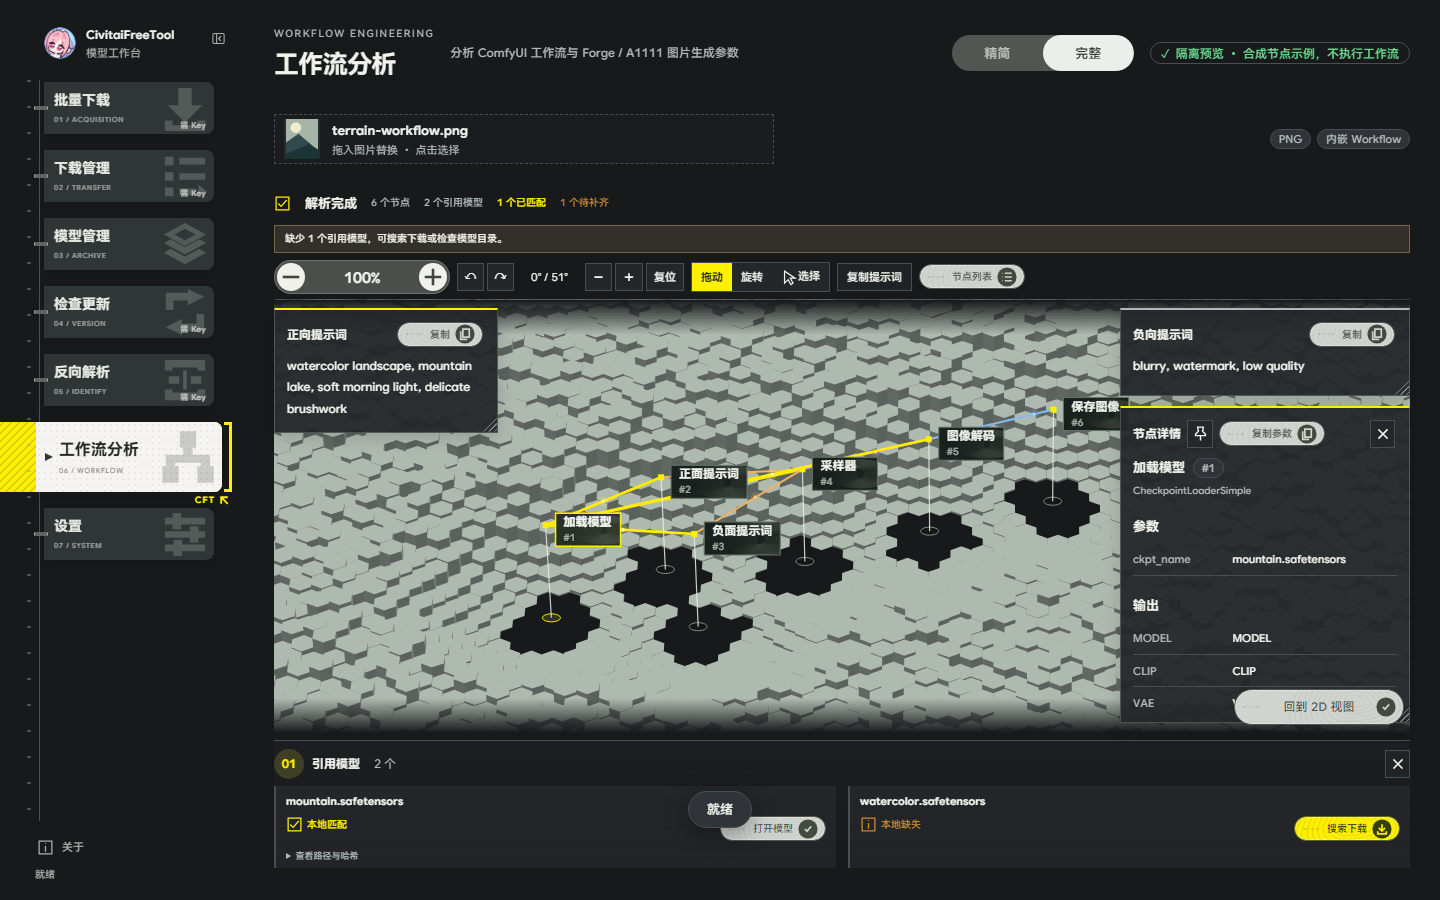
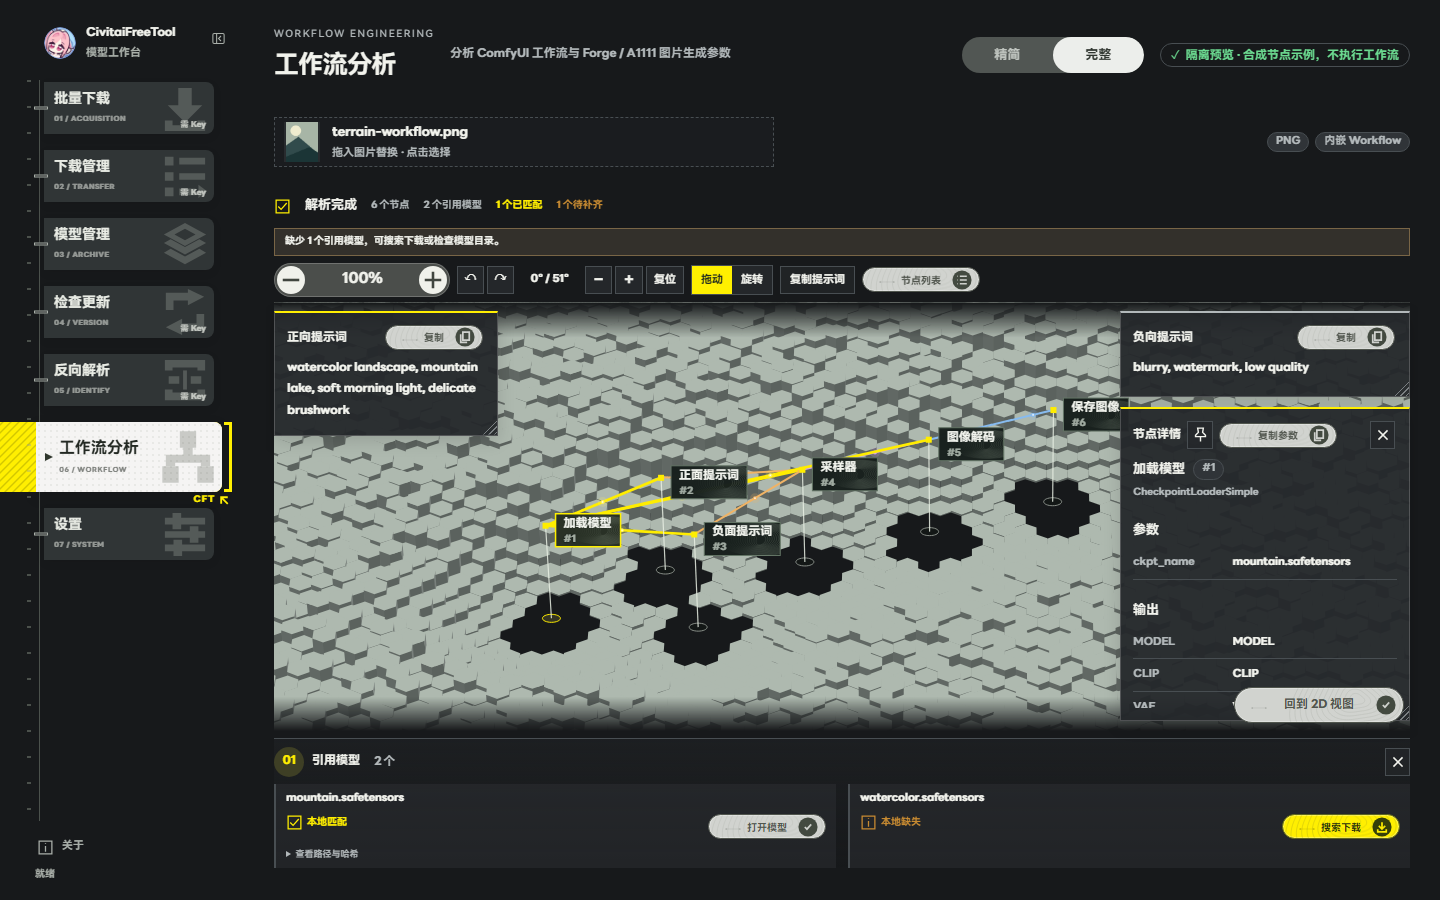
docs: continuous map palettes, full-width header and complete theme-aware screenshots

diff --git a/docs/index.html b/docs/index.html
@@ -4,7 +4,7 @@
 <meta charset="utf-8"><meta name="viewport" content="width=device-width,initial-scale=1"><meta name="color-scheme" content="light dark">
 <meta name="description" content="CivitaiFreeTool：下载、整理和管理本地 AI 模型，查看模型来源与工作流。Windows 便携版，配套 Chrome / Edge 与 Firefox 扩展。">
 <meta property="og:title" content="CivitaiFreeTool — 模型收藏，从这里开始。"><meta property="og:description" content="下载、归档、反向解析与工作流分析。你的模型，一个工作台。"><meta property="og:image" content="https://advicesama.github.io/CivitaiFreeTool/assets/repository-cover.png">
-<title>CivitaiFreeTool — 模型收藏，从这里开始。</title><link rel="icon" href="icon128.png"><link rel="stylesheet" href="site.css"><link rel="stylesheet" href="site-pages.css"><script src="site.js" defer></script><script src="site-pages.js" defer></script>
+<title>CivitaiFreeTool — 模型收藏，从这里开始。</title><link rel="icon" href="icon128.png"><link rel="stylesheet" href="site.css?v=20261115-theme-shots"><link rel="stylesheet" href="site-pages.css?v=20261115-theme-shots"><script src="site.js?v=20261115-theme-shots" defer></script><script src="site-pages.js?v=20261115-theme-shots" defer></script>
 </head>
 <body>
 <div class="site-map" aria-hidden="true"><div class="map-contours"></div><div class="map-grid"></div><svg class="map-geometry" viewBox="0 0 1600 1000" preserveAspectRatio="xMidYMid slice"><g fill="none" stroke="currentColor"><path d="M-100 820 440 640 980 810 1720 420M100 -100 440 640 140 1100M440 640 1240 210 1720 420M1240 -50v1100"/><circle cx="440" cy="640" r="90"/><circle cx="440" cy="640" r="140"/><circle cx="1240" cy="210" r="36"/><path d="M420 640h40m-20-20v40M1220 210h40m-20-20v40"/></g></svg><span class="map-coordinate">CFT / LOCAL ARCHIVE<br>COLLECTION ENGINEERING</span></div>
@@ -19,15 +19,15 @@
 <div class="hero-topline"><p class="eyebrow"><span class="status-dot" aria-hidden="true"></span> LOCAL MODEL WORKBENCH</p><p class="edition">WINDOWS 10 / 11 <span>—</span> FREE TO USE</p></div>
 <div class="hero-layout"><div><h1 id="heroTitle">模型收藏，<br><span>从这里开始。</span><i aria-hidden="true"><svg viewBox="0 0 48 48" aria-hidden="true" focusable="false"><path d="M13 9h26v26h-8V23L14 40l-6-6 17-17H13Z"/></svg></i></h1></div><div class="hero-aside"><span class="section-index">WORKSPACE / 03</span><p class="lead">让散落的模型，<br>成为井然有序的收藏。</p><p class="hero-description">下载、整理、检查更新。再从一张生成图片，读懂它背后的工作流。</p><a class="button primary" href="#download">获取 CivitaiFreeTool <span aria-hidden="true">↗</span></a><a class="inline-link" href="https://github.com/ADVICEsama/CivitaiFreeTool">查看项目源码 <span aria-hidden="true">↗</span></a></div></div>
 <div class="workspace" id="workspace"><div class="workspace-bar"><div class="view-tabs" aria-label="工作台预览"><button type="button" class="view-tab active" data-view="models"><span>01</span>模型档案</button><button type="button" class="view-tab" data-view="updates"><span>02</span>版本检查</button><button type="button" class="view-tab" data-view="workflow"><span>03</span>工作流分析</button></div><span class="workspace-label">THE ACTUAL WORKBENCH <span aria-hidden="true">↙</span></span></div>
-<figure class="product-view" id="view-models"><img src="screenshots/overview-models-v3.png" width="1440" height="900" alt="模型管理工作台：三种模型视图、筛选与右侧详情预览" fetchpriority="high"><figcaption><span>模型管理 / MODEL ARCHIVE</span><span>隔离示例 · 不含个人模型与账号</span></figcaption></figure>
-<figure class="product-view" id="view-updates"><img src="screenshots/overview-updates-v3.png" width="1440" height="900" alt="检查更新工作台：左侧批次、右侧模型版本与更新状态" loading="lazy"><figcaption><span>检查更新 / VERSION CHECK</span><span>隔离示例 · 仅提示同底模新版</span></figcaption></figure>
-<figure class="product-view" id="view-workflow"><img src="screenshots/overview-workflow-v3.png" width="1440" height="900" alt="工作流分析：节点沙盘、独立提示词与引用模型" loading="lazy"><figcaption><span>工作流分析 / WORKFLOW ENGINEERING</span><span>合成示例 · 只分析，不执行</span></figcaption></figure>
+<figure class="product-view" id="view-models"><img src="screenshots/overview-models-v3-light.png" data-light-src="screenshots/overview-models-v3-light.png" data-dark-src="screenshots/overview-models-v3.png" width="1440" height="900" alt="模型管理工作台：三种模型视图、筛选与右侧详情预览" fetchpriority="high"><figcaption><span>模型管理 / MODEL ARCHIVE</span><span>隔离示例 · 不含个人模型与账号</span></figcaption></figure>
+<figure class="product-view" id="view-updates"><img src="screenshots/overview-updates-v3-light.png" data-light-src="screenshots/overview-updates-v3-light.png" data-dark-src="screenshots/overview-updates-v3.png" width="1440" height="900" alt="检查更新工作台：左侧批次、右侧模型版本与更新状态" loading="lazy"><figcaption><span>检查更新 / VERSION CHECK</span><span>隔离示例 · 仅提示同底模新版</span></figcaption></figure>
+<figure class="product-view" id="view-workflow"><img src="screenshots/overview-workflow-v3-light.png" data-light-src="screenshots/overview-workflow-v3-light.png" data-dark-src="screenshots/overview-workflow-v3.png" width="1440" height="900" alt="工作流分析：节点沙盘、独立提示词与引用模型" loading="lazy"><figcaption><span>工作流分析 / WORKFLOW ENGINEERING</span><span>合成示例 · 只分析，不执行</span></figcaption></figure>
 </div>
 <div class="hero-foot"><span>WINDOWS PORTABLE APPLICATION</span><p>一个工作台。<b>七种能力。</b></p><a href="#capabilities">向下探索 <span aria-hidden="true">↓</span></a></div>
 </section>
 <section id="capabilities" class="capabilities shell page" aria-labelledby="capTitle"><div class="section-heading"><p class="eyebrow">01 / THE COLLECTION</p><h2 id="capTitle">不只是下载。<br>是收藏的完整秩序。</h2><p>从浏览器里的一个链接，到本地目录里的每一个模型。<br>把常用的步骤连起来，把反复的操作省下来。</p></div>
 <div class="cap-layout"><article class="cap-feature"><span class="large-number" aria-hidden="true">01—03</span><h3>收集。传输。归档。</h3><p>批量提交链接、确认文件与目录；任务完成后自动归入历史。用瀑布流、方格或列表，重新认识你的本地收藏。</p><div class="cap-tags"><span>批量下载</span><span>下载管理</span><span>模型管理</span></div><div class="archive-diagram" aria-hidden="true"><span>URL</span><i>→</i><span>QUEUE</span><i>→</i><strong>ARCHIVE ↗</strong></div></article><div class="cap-list"><article><span>04</span><div><h3>版本，不再错过。</h3><p>按底模比较可用版本，按日期与批次保留检查结果。</p></div></article><article><span>05</span><div><h3>为本地模型，找回来路。</h3><p>通过文件哈希反查来源，补充名称、封面、简介与触发词。</p></div></article><article><span>06</span><div><h3>看图片，也看它的生成过程。</h3><p>读取可解析的工作流、提示词与模型引用，不凭空补全丢失的数据。</p></div></article><article><span>07</span><div><h3>外观与习惯，都由你决定。</h3><p>亮暗主题、卡片外观、字体回退、快捷键和性能独立设置。</p></div></article></div></div></section>
-<section id="analysis" class="analysis page"><div class="shell"><div class="analysis-heading"><p class="eyebrow">02 / BEHIND THE IMAGE</p><h2>看见结果。<br><em>也看懂过程。</em></h2><div><p>拖入包含生成数据的图片，拆开它的工作流。</p><p>用 3D 沙盘浏览节点关系，或切回熟悉的 2D 连线视图。提示词、节点参数与引用模型，各有自己的位置。</p></div></div><figure class="analysis-screen"><img src="screenshots/overview-workflow-v3.png" width="1440" height="900" loading="lazy" alt="工作流节点以沙盘展示，左右显示提示词，底部集中显示引用模型"><figcaption><span>WORKFLOW / INSPECT, NOT EXECUTE</span><span>合成节点示例</span></figcaption></figure><div class="analysis-notes"><p><b>原始信息，独立查看。</b><span>复制提示词，固定节点详情，查看本地缺失模型。</span></p><p><b>只读分析，不运行工作流。</b><span>2D 排布不写回原图；已被剥离的数据无法恢复。</span></p></div></div></section>
+<section id="analysis" class="analysis page"><div class="shell"><div class="analysis-heading"><p class="eyebrow">02 / BEHIND THE IMAGE</p><h2>看见结果。<br><em>也看懂过程。</em></h2><div><p>拖入包含生成数据的图片，拆开它的工作流。</p><p>用 3D 沙盘浏览节点关系，或切回熟悉的 2D 连线视图。提示词、节点参数与引用模型，各有自己的位置。</p></div></div><figure class="analysis-screen"><img src="screenshots/overview-workflow-v3-light.png" data-light-src="screenshots/overview-workflow-v3-light.png" data-dark-src="screenshots/overview-workflow-v3.png" width="1440" height="900" loading="lazy" alt="工作流节点以沙盘展示，左右显示提示词，底部集中显示引用模型"><figcaption><span>WORKFLOW / INSPECT, NOT EXECUTE</span><span>合成节点示例</span></figcaption></figure><div class="analysis-notes"><p><b>原始信息，独立查看。</b><span>复制提示词，固定节点详情，查看本地缺失模型。</span></p><p><b>只读分析，不运行工作流。</b><span>2D 排布不写回原图；已被剥离的数据无法恢复。</span></p></div></div></section>
 <section id="performance" class="performance shell page"><div class="section-heading"><p class="eyebrow">03 / MAKE IT YOURS</p><h2>保留细节。<br>也照顾你的设备。</h2><p>四档性能设置，从完整动效到静态工作台。<br>非前台降低背景占用，隐藏或最小化暂停视觉动效，下载照常进行。</p></div><div class="performance-scale"><article><span>01 / EXTREME</span><h3>极致</h3><p>完整动效<br>跟随屏幕刷新调度</p></article><article><span>02 / HIGH</span><h3>高</h3><p>保留动效<br>背景上限 60 FPS</p></article><article><span>03 / BALANCED</span><h3>均衡</h3><p>降低背景负担<br>背景上限 30 FPS</p></article><article><span>04 / LOW</span><h3>低</h3><p>静态外观<br>关闭界面动画</p></article></div><p class="fine">实际帧率取决于设备、屏幕与 WebView，不保证达到上限。GPU 默认不禁用。</p></section>
 <section id="download" class="download page"><div class="shell"><div class="download-top"><p class="eyebrow">04 / YOUR NEXT WORKBENCH</p><span class="release-label" id="releaseVersion">WINDOWS / v3.0.19</span></div><h2>下一站，<br>你的模型工作台。<span class="download-arrow" aria-hidden="true"><svg viewBox="0 0 48 48" aria-hidden="true" focusable="false"><path d="M13 9h26v26h-8V23L14 40l-6-6 17-17H13Z"/></svg></span></h2><div class="download-grid"><article class="download-main"><h3>Windows 便携版</h3><p>解压即用，无需安装向导。<br>更新前退出旧版，替换 EXE，保留原配置与任务。</p><div class="actions"><a class="button dark" id="dlWindows" href="https://github.com/ADVICEsama/CivitaiFreeTool/releases/download/v3.0.19/CivitaiFreeTool-Windows-v3.0.19.zip">下载便携 ZIP <span aria-hidden="true">↓</span></a><a class="inline-link" id="dlExe" href="https://github.com/ADVICEsama/CivitaiFreeTool/releases/download/v3.0.19/CivitaiFreeToolWeb-3.0.19.exe">独立 EXE <span aria-hidden="true">↗</span></a></div><p id="releaseStatus" class="download-status" aria-live="polite">当前文档版本 3.0.19 · Windows 10 / 11 · WebView2</p></article><article class="download-extension"><h3>让浏览器，连接工作台。</h3><p>当前模型页一键提交，多个模型标签页批量发送。<br>使用前，先启动 Windows 版 CFT。</p><div class="extension-links"><a id="dlChrome" href="https://github.com/ADVICEsama/CivitaiFreeTool/releases/download/v3.0.19/CivitaiFreeTool-ChromeExtension-v3.0.19.zip">Chrome / Edge <span aria-hidden="true">↗</span></a><a id="dlFirefox" href="https://github.com/ADVICEsama/CivitaiFreeTool/releases/download/v3.0.19/CivitaiFreeTool-FirefoxExtension-v3.0.19.zip">Firefox <span aria-hidden="true">↗</span></a></div><p class="fine">Chrome / Edge 解压加载。Firefox 附件未签名，仅支持临时加载，重启需重新载入。</p></article></div><div class="download-bottom"><a id="releasePage" href="https://github.com/ADVICEsama/CivitaiFreeTool/releases/tag/v3.0.19">版本说明、源码与 SHA256 ↗</a><a href="https://github.com/ADVICEsama/CivitaiFreeTool/blob/main/LINUX.md">Linux / macOS 源码运行 ↗</a></div></div></section>
 <section id="start" class="getting-started shell page"><div class="section-heading"><p class="eyebrow">05 / FIRST RUN</p><h2>从你的现有收藏开始。</h2></div><ol><li><span>01</span><h3>指定模型目录</h3><p>加入现有文件夹并扫描。<br>不移动、不重新下载已有模型。</p></li><li><span>02</span><h3>按需配置账号</h3><p>引导可以跳过；联网查询和下载<br>仍需满足来源网站的访问要求。</p></li><li><span>03</span><h3>开始收集与整理</h3><p>粘贴链接，或从扩展发送。<br>确认保存位置，在队列查看实际进度。</p></li></ol></section>

diff --git a/docs/site.js b/docs/site.js
@@ -1,4 +1,4 @@
 /* Local, progressive enhancement; all downloads work without JavaScript. */
-(()=>{'use strict';const root=document.documentElement,button=document.getElementById('themeToggle');const apply=theme=>{root.dataset.theme=theme;button.setAttribute('aria-label',theme==='dark'?'切换为亮色外观':'切换为暗色外观');button.setAttribute('aria-pressed',String(theme==='dark'));};let saved;try{saved=localStorage.getItem('cft-site-theme');}catch{}apply(saved==='dark'||saved==='light'?saved:matchMedia('(prefers-color-scheme: dark)').matches?'dark':'light');button.addEventListener('click',()=>{const theme=root.dataset.theme==='dark'?'light':'dark';apply(theme);try{localStorage.setItem('cft-site-theme',theme);}catch{}});const tabs=[...document.querySelectorAll('.view-tab')];document.querySelector('.view-tabs').setAttribute('role','tablist');function select(tab,focus=false){tabs.forEach(t=>{const active=t===tab;t.classList.toggle('active',active);t.setAttribute('aria-selected',String(active));t.tabIndex=active?0:-1;document.getElementById('view-'+t.dataset.view).hidden=!active;});if(focus)tab.focus();}tabs.forEach((tab,i)=>{tab.id='tab-'+tab.dataset.view;tab.setAttribute('role','tab');tab.setAttribute('aria-controls','view-'+tab.dataset.view);const panel=document.getElementById('view-'+tab.dataset.view);panel.setAttribute('role','tabpanel');panel.setAttribute('aria-labelledby',tab.id);tab.addEventListener('click',()=>select(tab));tab.addEventListener('keydown',e=>{let next;if(e.key==='ArrowRight')next=(i+1)%tabs.length;if(e.key==='ArrowLeft')next=(i+tabs.length-1)%tabs.length;if(e.key==='Home')next=0;if(e.key==='End')next=tabs.length-1;if(next!==undefined){e.preventDefault();select(tabs[next],true);}});});select(tabs[0]);})();
+(()=>{'use strict';const root=document.documentElement,button=document.getElementById('themeToggle');const apply=theme=>{root.dataset.theme=theme;document.querySelectorAll('img[data-light-src][data-dark-src]').forEach(img=>{const src=theme==='dark'?img.dataset.darkSrc:img.dataset.lightSrc;if(img.getAttribute('src')!==src)img.src=src;});button.setAttribute('aria-label',theme==='dark'?'切换为亮色外观':'切换为暗色外观');button.setAttribute('aria-pressed',String(theme==='dark'));};let saved;try{saved=localStorage.getItem('cft-site-theme');}catch{}apply(saved==='dark'||saved==='light'?saved:matchMedia('(prefers-color-scheme: dark)').matches?'dark':'light');button.addEventListener('click',()=>{const theme=root.dataset.theme==='dark'?'light':'dark';apply(theme);try{localStorage.setItem('cft-site-theme',theme);}catch{}});const tabs=[...document.querySelectorAll('.view-tab')];document.querySelector('.view-tabs').setAttribute('role','tablist');function select(tab,focus=false){tabs.forEach(t=>{const active=t===tab;t.classList.toggle('active',active);t.setAttribute('aria-selected',String(active));t.tabIndex=active?0:-1;document.getElementById('view-'+t.dataset.view).hidden=!active;});if(focus)tab.focus();}tabs.forEach((tab,i)=>{tab.id='tab-'+tab.dataset.view;tab.setAttribute('role','tab');tab.setAttribute('aria-controls','view-'+tab.dataset.view);const panel=document.getElementById('view-'+tab.dataset.view);panel.setAttribute('role','tabpanel');panel.setAttribute('aria-labelledby',tab.id);tab.addEventListener('click',()=>select(tab));tab.addEventListener('keydown',e=>{let next;if(e.key==='ArrowRight')next=(i+1)%tabs.length;if(e.key==='ArrowLeft')next=(i+tabs.length-1)%tabs.length;if(e.key==='Home')next=0;if(e.key==='End')next=tabs.length-1;if(next!==undefined){e.preventDefault();select(tabs[next],true);}});});select(tabs[0]);})();
 /* Optional release refresh; static verified download links remain usable without JS/API. */
 (()=>{'use strict';const base='https://github.com/ADVICEsama/CivitaiFreeTool',allowed=url=>{try{const u=new URL(url);return u.origin==='https://github.com'&&u.pathname.startsWith('/ADVICEsama/CivitaiFreeTool/releases/');}catch{return false;}};const controller=new AbortController(),timer=setTimeout(()=>controller.abort(),6000);fetch('https://api.github.com/repos/ADVICEsama/CivitaiFreeTool/releases?per_page=15',{signal:controller.signal,headers:{Accept:'application/vnd.github+json'}}).then(r=>{if(!r.ok)throw Error('unavailable');return r.json();}).then(list=>{const release=Array.isArray(list)?list.find(r=>!r.draft&&!r.prerelease&&/^v\d+\.\d+\.\d+$/.test(r.tag_name)&&(r.assets||[]).some(a=>/^CivitaiFreeToolWeb.*\.exe$/i.test(a.name))):null;if(!release)throw Error('no software release');const assets=release.assets||[],picks={dlWindows:assets.find(a=>/^CivitaiFreeTool-(Windows|EXE)-.*\.zip$/i.test(a.name)),dlExe:assets.find(a=>/^CivitaiFreeToolWeb.*\.exe$/i.test(a.name)),dlChrome:assets.find(a=>/ChromeExtension.*\.zip$/i.test(a.name)),dlFirefox:assets.find(a=>/FirefoxExtension.*\.zip$/i.test(a.name))};if(!Object.values(picks).every(a=>a&&allowed(a.browser_download_url)))throw Error('incomplete release');Object.entries(picks).forEach(([id,a])=>document.getElementById(id).href=a.browser_download_url);document.getElementById('releaseVersion').textContent='WINDOWS / '+release.tag_name;document.getElementById('releasePage').href=base+'/releases/tag/'+encodeURIComponent(release.tag_name);document.getElementById('releaseStatus').textContent='已获取最新 Windows 稳定版 '+release.tag_name;}).catch(()=>{document.getElementById('releaseStatus').textContent=document.getElementById('releaseVersion').textContent+' · 未能获取在线更新，以下链接仍可使用';}).finally(()=>clearTimeout(timer));})();

diff --git a/docs/site-pages.css b/docs/site-pages.css
@@ -16,9 +16,9 @@ h1 i svg{width:72%;height:72%;fill:#202723;display:block;flex:none}
 .page-rail,.page-guide{display:none}
 .cap-feature{background:color-mix(in srgb,var(--panel) 88%,transparent)}
 .product-view img{background:#171c1a}
-.analysis{position:relative;background:#202923f2}
-.download{position:relative}
-.download:before{content:'';position:absolute;inset:0;pointer-events:none;background:url('assets/contours.svg') center/cover;opacity:.075}
+.analysis{position:relative;background:transparent;color:var(--ink)}
+.download{position:relative;background:transparent;color:var(--ink)}
+.download:before{display:none}
 .download>.shell{position:relative}
 .footer{position:relative}
 @media(min-width:1000px) and (min-height:720px){
@@ -27,7 +27,7 @@ h1 i svg{width:72%;height:72%;fill:#202723;display:block;flex:none}
  html.paged{scroll-snap-type:y proximity}
  body{padding-top:var(--site-header)}
  .shell{width:min(1280px,calc(100% - 176px))}
- .top.shell{position:fixed;top:0;left:0;right:0;height:var(--site-header);z-index:20;background:color-mix(in srgb,var(--paper) 96%,transparent);border-bottom:1px solid var(--line)}
+ .top.shell{position:fixed;top:0;left:0;right:0;width:100%;padding-inline:max(88px,calc((100% - 1280px)/2));height:var(--site-header);z-index:20;background:var(--paper);border-bottom:1px solid var(--line)}
  .top:before{content:'';position:absolute;top:0;left:calc((1280px - 100vw)/2);right:calc((1280px - 100vw)/2);height:3px;background:var(--stripe)}
  .page{min-height:var(--screen);scroll-snap-align:start;scroll-margin-top:0;position:relative}
  .page:after{content:'';position:absolute;top:30px;right:0;width:6px;height:6px;border-top:1px solid var(--muted);border-right:1px solid var(--muted);opacity:.6;pointer-events:none}
@@ -89,6 +89,7 @@ h1 i svg{width:72%;height:72%;fill:#202723;display:block;flex:none}
 }
 @media(min-width:1000px) and (max-width:1200px) and (min-height:720px){
  .shell,.download>.shell{width:calc(100% - 128px)}
+ .top.shell{width:100%;padding-inline:64px}
  .hero-layout{gap:30px;grid-template-columns:1.4fr 1fr}
  h1{font-size:62px;letter-spacing:-3px}
  .hero-aside .lead{font-size:19px}
@@ -116,5 +117,23 @@ h1 i svg{width:72%;height:72%;fill:#202723;display:block;flex:none}
 [data-theme=dark] .map-contours{opacity:.105}
 @media(min-width:1000px) and (min-height:720px){
  .top.shell{background:var(--paper)}
- .hero .product-view img{object-fit:cover;object-position:center 27%}
+ .hero .product-view img{object-fit:contain;object-position:center;background:var(--panel)}
 }
+
+/* One viewport-sized map; chapters only change its palette, never replace it. */
+:root[data-scene="analysis"]{--paper:#202923;--ink:#f1f2e9;--muted:#b5c0b3;--line:#4b584d;--panel:#2c382e;color-scheme:dark}
+:root[data-scene="download"]{--paper:#fff000;--ink:#202723;--muted:#505522;--line:#a6a12a;--panel:#e6db26;color-scheme:light}
+body,.top.shell,.page-guide span,.page-rail b{transition:background-color .55s ease,color .4s ease,border-color .4s ease}
+.site-map{transition:color .4s ease}
+.analysis-heading>.eyebrow,.analysis-heading>div,.analysis-screen figcaption,.analysis-notes span{color:var(--muted)}
+.analysis-notes{border-color:var(--line)}
+.analysis-heading em{color:var(--ink);text-decoration:underline;text-decoration-color:#c1b500;text-underline-offset:.16em;text-decoration-thickness:3px}
+:root[data-scene="analysis"] .analysis-heading em{color:var(--yellow);text-decoration:none}
+:root[data-scene="analysis"] .brand-logo,:root[data-scene="analysis"] .footer-brand img{filter:invert(1)}
+:root[data-scene="analysis"] .map-contours{filter:invert(1);opacity:.105}
+:root[data-scene="download"] .brand-logo,:root[data-scene="download"] .footer-brand img{filter:none}
+:root[data-scene="download"] .map-contours{filter:none;opacity:.075}
+:root[data-scene="download"] .page-rail a[aria-current=location] i{background:var(--ink)}
+:root[data-scene="analysis"] .page-rail a[aria-current=location] i{background:var(--yellow)}
+.download .fine,.download-status{color:var(--muted)}
+@media(prefers-reduced-motion:reduce){body,.top.shell,.site-map,.page-guide span,.page-rail b{transition:none}}

diff --git a/docs/site-pages.js b/docs/site-pages.js
@@ -16,6 +16,7 @@
   for(let i=0;i<pages.length;i++)if(top(pages[i])<=scrollY+innerHeight*.3)index=i;
   if(index===current)return;
   current=index;
+  root.dataset.scene=pages[index].id;
   links.forEach((link,i)=>{if(i===index)link.setAttribute('aria-current','location');else link.removeAttribute('aria-current');});
   document.getElementById('pageNumber').textContent=String(index+1).padStart(2,'0')+' / 07';
   const [x,y]=offsets[index];

diff --git a/docs/SITE-DESIGN.md b/docs/SITE-DESIGN.md
@@ -10,3 +10,7 @@
 - `tests/test_public_home.cjs` 检查明暗主题、320–1440px 布局、键盘预览标签、主题保存和断网下载回退。
 - `tests/test_public_home_paging.cjs` 检查四种桌面尺寸的七屏定位、滚轮与键盘、连续滚轮防跨页、手机正常滚动；输出截图供人工检查。
 - 仅官网文档调整不重打桌面 EXE、不替换现有 Release 附件。
+
+- 顶栏底色与三色线覆盖整个视口，内部内容才对齐中央栏。所有章节透明叠在同一张固定地图上，第三屏／第五屏仅切换全局配色，禁止额外覆盖独立纹理底板。
+
+- 首屏预览必须 contain 完整显示，不能 cover 裁切。亮／暗使用分别拍摄的隔离示例截图，按用户选定主题切换资源，不用 CSS invert 修改软件截图。`capture_public_docs.cjs --light-only` 可单独刷新亮色截图。
